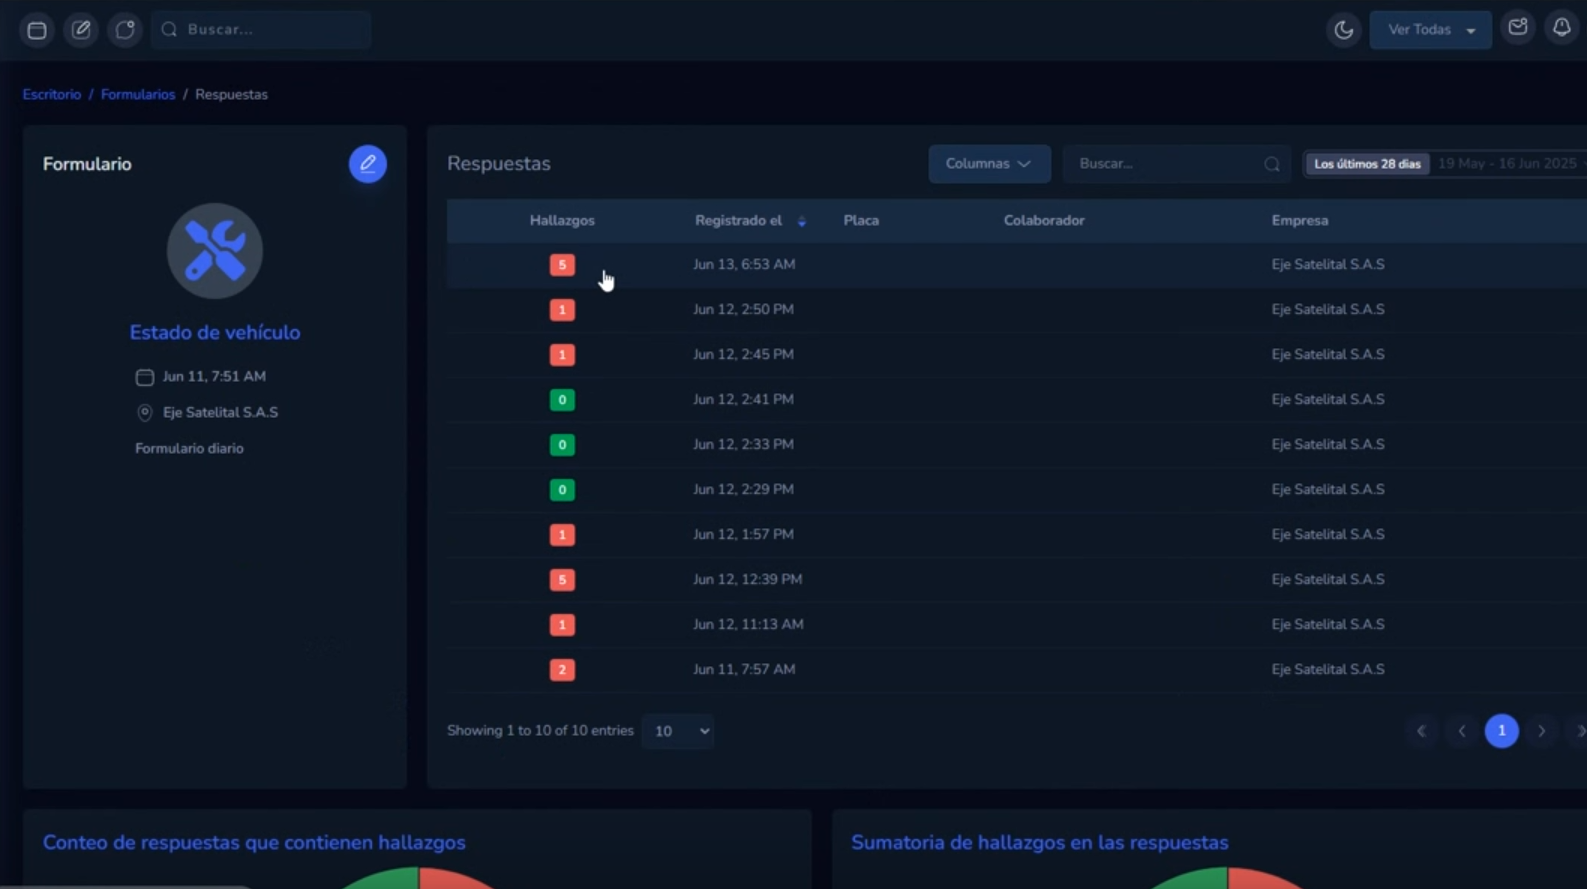
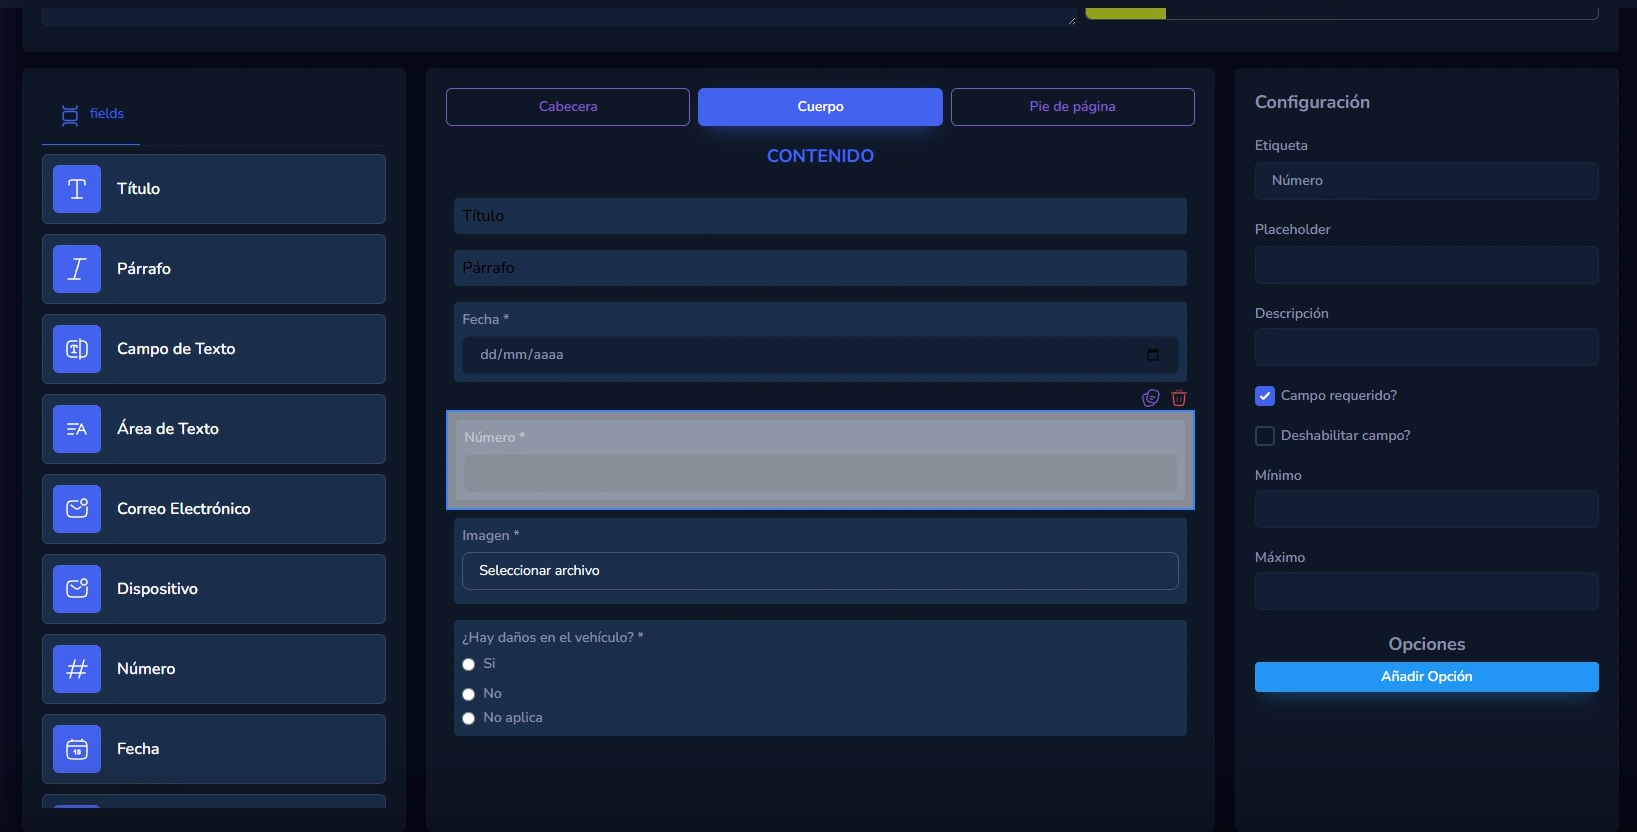
feat: merge company+client into combined chip, configure contact worker

diff --git a/src/utils/icons.ts b/src/utils/icons.ts
@@ -22,6 +22,7 @@ const brandIcons: Record<string, string> = {
   "HTML": "html5",
   "CSS": "css3",
   "Bootstrap": "bootstrap",
+  "Tailwind": "tailwindcss",
   "Mailgun": "mailgun",
   "OpenAI": "openai",
 };
@@ -56,6 +57,34 @@ const genericMap: [string, string][] = [
   ["Turf", "map"],
   ["evaluaciones psicométricas", "ai"],
   ["psicométrica", "ai"],
+  ["Diseño Responsive", "code"],
+  ["Responsive Design", "code"],
+  ["Desarrollo de APIs", "code"],
+  ["API Development", "code"],
+  ["Sistemas en Tiempo Real", "code"],
+  ["Real-Time Systems", "code"],
+  ["Autenticación", "code"],
+  ["Authentication", "code"],
+  ["Control de Acceso Basado en Roles", "code"],
+  ["Role-Based Access Control", "code"],
+  ["Compilaciones Android", "mobile"],
+  ["Android Builds", "mobile"],
+  ["Servicios en Segundo Plano", "mobile"],
+  ["Background Services", "mobile"],
+  ["Generación de PDF", "code"],
+  ["PDF Generation", "code"],
+  ["Exportaciones a Excel", "code"],
+  ["Excel Exports", "code"],
+  ["Sistemas de Notificaciones", "code"],
+  ["Notification Systems", "code"],
+  ["Flujos de Chatbot", "ai"],
+  ["Chatbot Workflows", "ai"],
+  ["Colas Offline", "code"],
+  ["Offline Queues", "code"],
+  ["Interfaces Geoespaciales", "map"],
+  ["Geospatial Interfaces", "map"],
+  ["Actualizaciones OTA", "code"],
+  ["OTA Updates", "code"],
 ];
 
 export function getSkillIcon(skill: string): string | undefined {

diff --git a/src/i18n/ui.ts b/src/i18n/ui.ts
@@ -5,7 +5,8 @@ export const translations: Record<Lang, Record<string, string>> = {
     "nav.projects": "Proyectos",
     "nav.skills": "Habilidades",
     "nav.experience": "Experiencia",
-    "cta.projects": "Ver Proyectos",
+    "cta.projects": "Conocé mis trabajos",
+    "cta.contact": "Contactarme",
     "cta.about": "Sobre Mí",
     "cta.details": "Detalles",
     "cta.viewDetails": "Ver Detalles",
@@ -65,7 +66,8 @@ export const translations: Record<Lang, Record<string, string>> = {
     "nav.projects": "Projects",
     "nav.skills": "Skills",
     "nav.experience": "Experience",
-    "cta.projects": "View Projects",
+    "cta.projects": "See my work",
+    "cta.contact": "Contact me",
     "cta.about": "About Me",
     "cta.details": "Details",
     "cta.viewDetails": "View Details",

diff --git a/workers/contact-form/src/index.js b/workers/contact-form/src/index.js
@@ -30,7 +30,7 @@ export default {
     }
 
     await env.SEND_EMAIL.send({
-      from: { name: "Portfolio Contact", email: "contacto@tudominio.com" },
+      from: { name: "Portfolio Contact", email: "contacto@camuss0.dev" },
       to: [{ email: "camussovalentin10@gmail.com" }],
       subject: `[Portfolio] ${subject || "Nuevo mensaje"} de ${name}`,
       html: `
